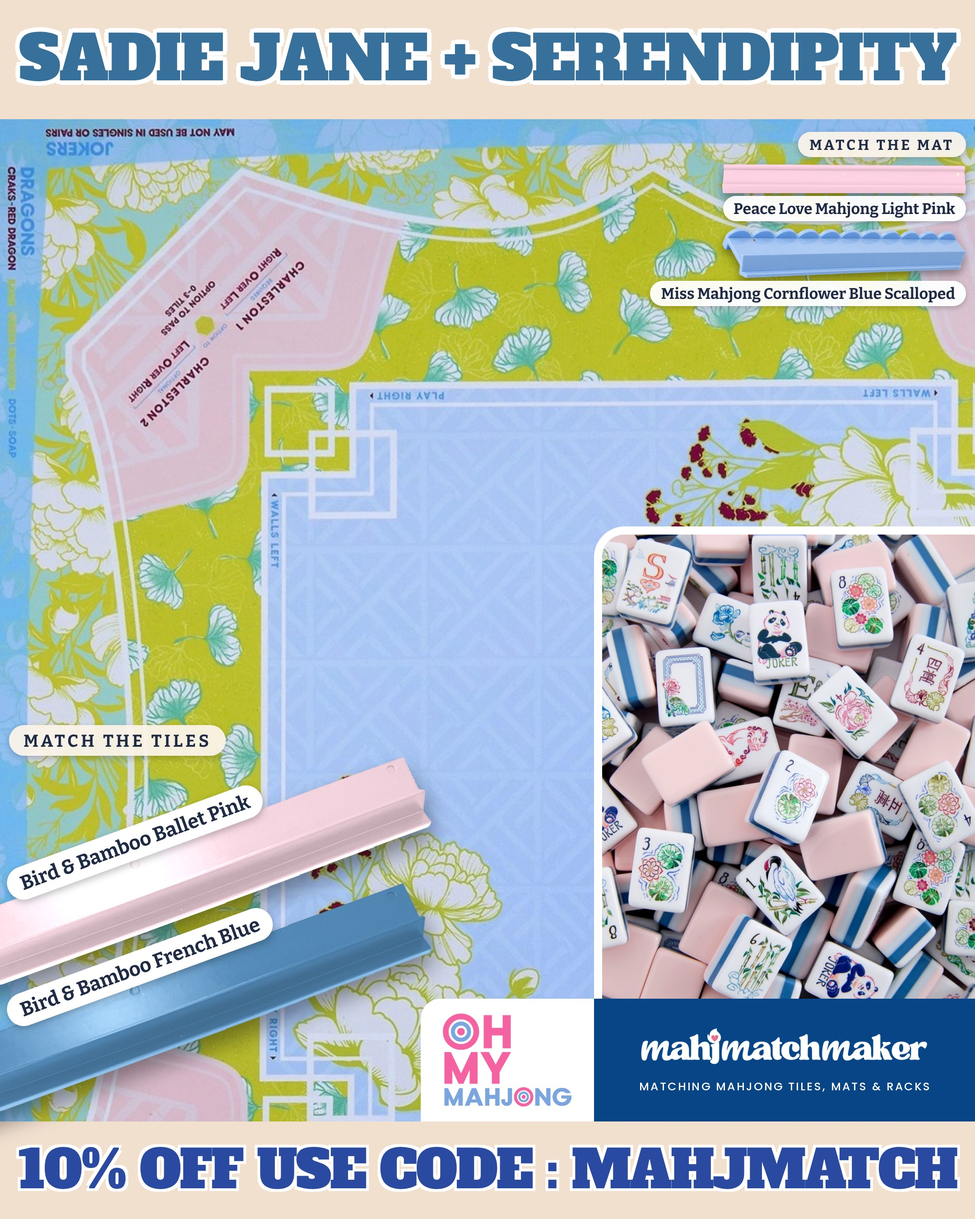
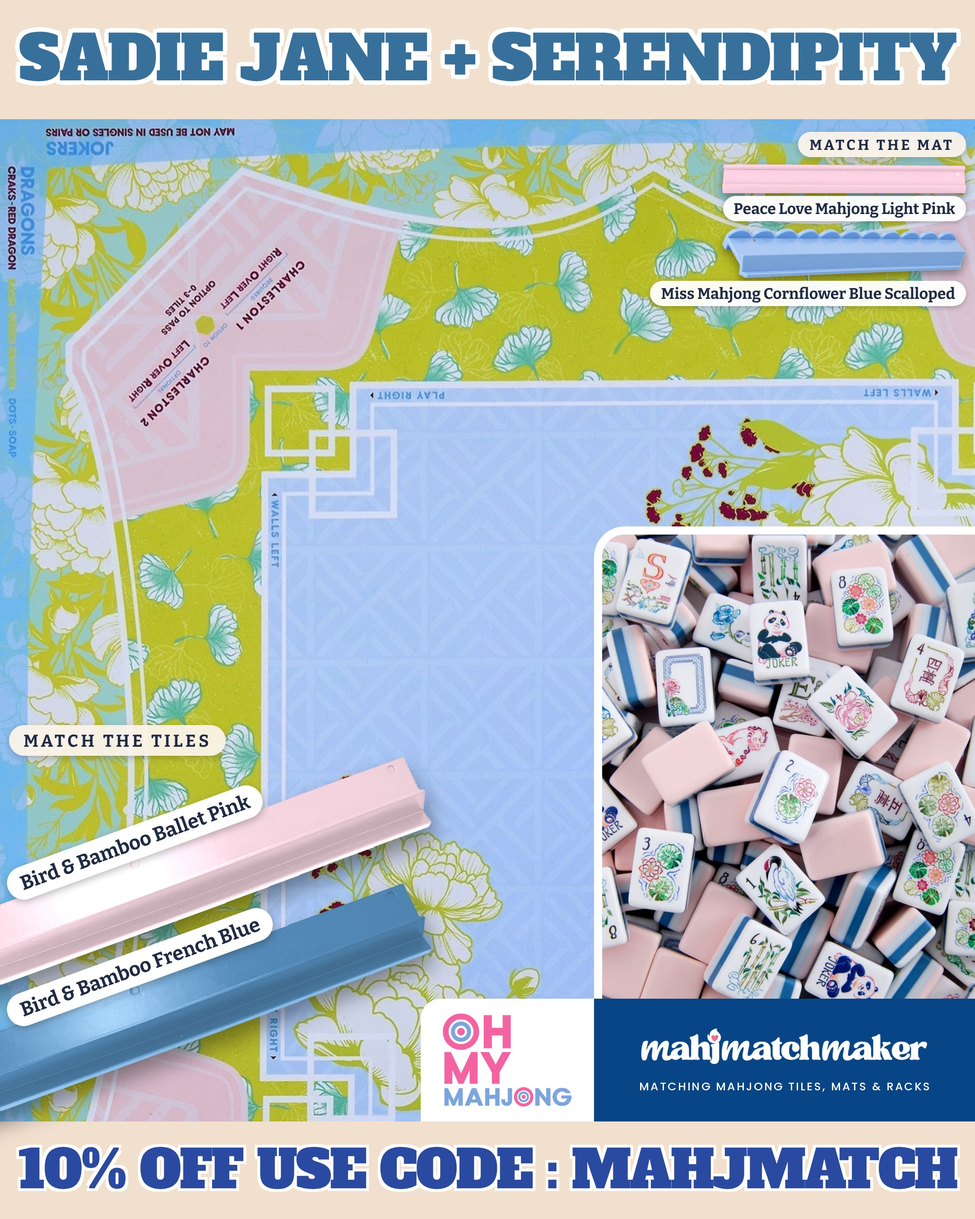
Sadie Jane hi-res sweep: Serendipity, Heron, Vintage Twinkle from store originals (queued batch)
Claude-Session: https://claude.ai/code/session_01QxwYQtmWcAr4s5uYJYP3mA

diff --git a/docs/OVERDUE.md b/docs/OVERDUE.md
@@ -176,7 +176,7 @@
 - since 2026-11-23 | RACK PAGES SHE ASKED FOR (Tiffany Nov 23 9:59am; after Sadie Jane is complete, before the next album): (A) RACKS-BY-MAT GALLERY: every mat with its 2 racks from config/mat-rack-memory.json + mat-racks-picks.json, filter by brand and name, 'solidified by Tiffany' vs 'Claude's pick, not reviewed', a notes box per mat + one blanket-notes box (artifact with db; link on HQ). (B) RACK GALLERY: every rack we can put on a card with its real linear photo (assets/racks/card/index.json), grouped by brand, metallics shown; clean up more racks (My Fair, PLM, Mahjong Register, Anders Ruff scallops; a real clear scallop; a scalloped light pink does not exist with a real photo yet). (C) BIRD & BAMBOO LIBRARY page: all colours as rendered (work/bbracks.json), notes per colour + photo upload from her phone (assets capability) to colour-correct against her real samples. (D) 'NEW MAT, never matched' flag on review cards for mats not in mat-rack-memory. | Main
 
 - since 2026-11-23 | SADIE JANE to completion (launch Wed Nov 25 11am ET): (a) [Mon 11:40am ET: she is IN the review page now, updated 16:40Z, done=false: publish NOTHING to it until she taps Done] she orders the 12 NEW cards / taps Done on review v11 -> read_review.py (round 2 closes), final order; (b) CAPRASIMO CAPITAL J: redraw straight (like the Nov 18 lowercase j) in assets/fonts/CaprasimoMM.*, rebuild cover + any 'Sadie Jane' title art; add to BRAND-GUIDE; also the review page loads a blocked jsDelivr font stylesheet (inline it); (c) all album assets per docs/NEW-ALBUM-CHECKLIST.md + Playbook (cover, colour card, wheel, faces, album page staged hidden, FYM m-lists, launch kit); (d) OMM-ONLY promo set (top 6 OMM mats, nothing from other brands; open question to her: tile racks on those cards are Bird & Bamboo); (e) flip-book view of the final cards. | Main
-- since 2026-11-23 | SADIE JANE HI-RES SWEEP (Tiffany 10:59am: 'some of these just look really soft when I zoom in'): mat sources under 1000px wide on a 2160px card: Pink Wildflower (Mahj & Moon flat photo is 926px with bamboo; ask M&M / find their Etsy fullxfull), Sunday Sherbert 630, Blue Willow 632, Julia 640 + Grace 870 (Etsy fullxfull via Chrome), Vintage Twinkle 640, Amazon Village + Snowflake 640 (Amazon hi-res), Anders Ruff Hamptons Hydrangea / Botanical Garden / Blushing Blooms 745 (store max), Color Wave corner 590 of a 1080 photo, Parrotia 960, Serendipity 998. An automatic store match found none; do each by hand (Chrome for Etsy/Amazon), re-point the spec, rebuild. Kerry done (3000px). | Main, before launch Wed Nov 25
+- since 2026-11-23 | SADIE JANE HI-RES SWEEP (Tiffany 10:59am: 'some of these just look really soft when I zoom in'): mat sources under 1000px wide on a 2160px card: Pink Wildflower (Mahj & Moon flat photo is 926px with bamboo; ask M&M / find their Etsy fullxfull), Sunday Sherbert 630, Blue Willow 632, Julia 640 + Grace 870 (Etsy fullxfull via Chrome), Vintage Twinkle 640, Amazon Village + Snowflake 640 (Amazon hi-res), Anders Ruff Hamptons Hydrangea / Botanical Garden / Blushing Blooms 745 (store max), Color Wave corner 590 of a 1080 photo, Parrotia 960, Serendipity 998. An automatic store match found none; do each by hand (Chrome for Etsy/Amazon), re-point the spec, rebuild. Kerry done (3000px). DONE Nov 23 12:40pm from the stores' original photos (cards rebuilt, in the queued batch): Serendipity (2400), Heron (2400, blue-corner crop), Vintage Twinkle (1160). Checked, no bigger flat photo exists on the store: Anders Ruff x3 (743-745), Pink Wildflower (926; only lifestyle shots are bigger), Color Wave (1080), Parrotia (1600 store max). STILL TO DO in Chrome: Blue Willow (Amanda Toppe), Sunday Sherbert (Mahjong Register), Grace + Julia (Etsy fullxfull), Amazon Village + Snowflake. | Main, before launch Wed Nov 25
 - since 2026-11-23 | RACKS TO STRAIGHTEN (same method as Anders Ruff MAHJenta, scripts in this session): Anders Ruff Rosé Pink Pearl, Pistachio, Jade, Tortoise; Peace Love wavy French Blue / Cobalt / Aqua / Navy / Mint / Lilac; Bam Bird Periwinkle / Teal / Pink / Dusty Lilac; Virora Ivory White (both styles); a clean Peace Love Light Pink. Feeds the rack gallery. | Main
 - since 2026-11-23 | SADIE JANE to completion (launch Wed Nov 25 11am ET): (a) she orders the 12 NEW cards / taps Done on review v11 -> read_review.py (round 2 closes), final order; (b) CAPRASIMO CAPITAL J: font + BRAND-GUIDE DONE Mon Nov 23 (scripts/fonts_caprasimo_capJ.py, dafa71e); STILL TO DO: rebuild cover + any 'Sadie Jane' title art with it and re-pin the jsDelivr font shims in assets/fonts/css; also the review page loads a blocked jsDelivr font stylesheet (inline it); (c) all album assets per docs/NEW-ALBUM-CHECKLIST.md + Playbook (cover, colour card, wheel, faces, album page staged hidden, FYM m-lists, launch kit); (d) OMM-ONLY promo set (top 6 OMM mats, nothing from other brands; open question to her: tile racks on those cards are Bird & Bamboo); (e) flip-book view of the final cards. | Main
 - DONE Nov 23 11:45am (published v16 on her go-ahead) | was: SADIE JANE HELD FOR HER DONE TAP: Pink & Blue Grandmillennial card with the opal scallop (spec is changed; rebuild the card and publish with the next batch, never while she is ordering). | Main
@@ -188,4 +188,4 @@
 - Betty June & Jeannette has its own Shopify store since ~Nov 17 (bettyjuneandjeannette.com, 36 mats): read /products.json for the backfill photos + new-mat watch; ask Tiffany once (with Sadie Jane's next message, not alone) whether to send the HQ affiliate inquiry email for the new site.
 - Reel covers: 40 sets only have the retired blur-band version (assets/covers/albums/reel-tall/_retired-blur-bands/). Rebuild each true 9:16 (TALL=1 album_cover_omm.py with the album's tile photo, or reel_tall_wall.py) and pass reel_cover_check.py; do a set's cover before its next reel, the rest from docs/USE-THE-USAGE.md.
 - Betty June & Jeannette affiliate inquiry sent Nov 23 (email): watch mahjmatchmaker@ inbox for the reply; log brands/betty-june-jeannette in HQ.
-- Sadie Jane QUEUED BATCH (publish once, after her Done or her go): Kerry card rebuilt with the truer site photo (assets/cards/sadie-jane, built Nov 23 11:55am; manifest/review not republished: she was in the page 11:40am); Heron card rebuilt Nov 23 12:25pm (crop = mat's top-left corner: blue sweep + heron head both show; in assets/cards/sadie-jane, not published). To publish the batch: build_review.py sadie-jane + Artifact publish, ONLY after her Done/go (db v405, updated 16:40Z, done false at 12:20pm). Also swap the Kerry photo in FYM + Mat Gallery to assets/mats/etsy/bettyjunejeannette/kerry-site-5.jpg in the next FYM release (hers is 'too saturated').
+- Sadie Jane QUEUED BATCH (publish once, after her Done or her go): Kerry card rebuilt with the truer site photo (assets/cards/sadie-jane, built Nov 23 11:55am; manifest/review not republished: she was in the page 11:40am); Serendipity + Vintage Twinkle hi-res cards also in the batch; Heron card rebuilt Nov 23 12:25pm (crop = mat's top-left corner: blue sweep + heron head both show; in assets/cards/sadie-jane, not published). To publish the batch: build_review.py sadie-jane + Artifact publish, ONLY after her Done/go (db v405, updated 16:40Z, done false at 12:20pm). Also swap the Kerry photo in FYM + Mat Gallery to assets/mats/etsy/bettyjunejeannette/kerry-site-5.jpg in the next FYM release (hers is 'too saturated').
